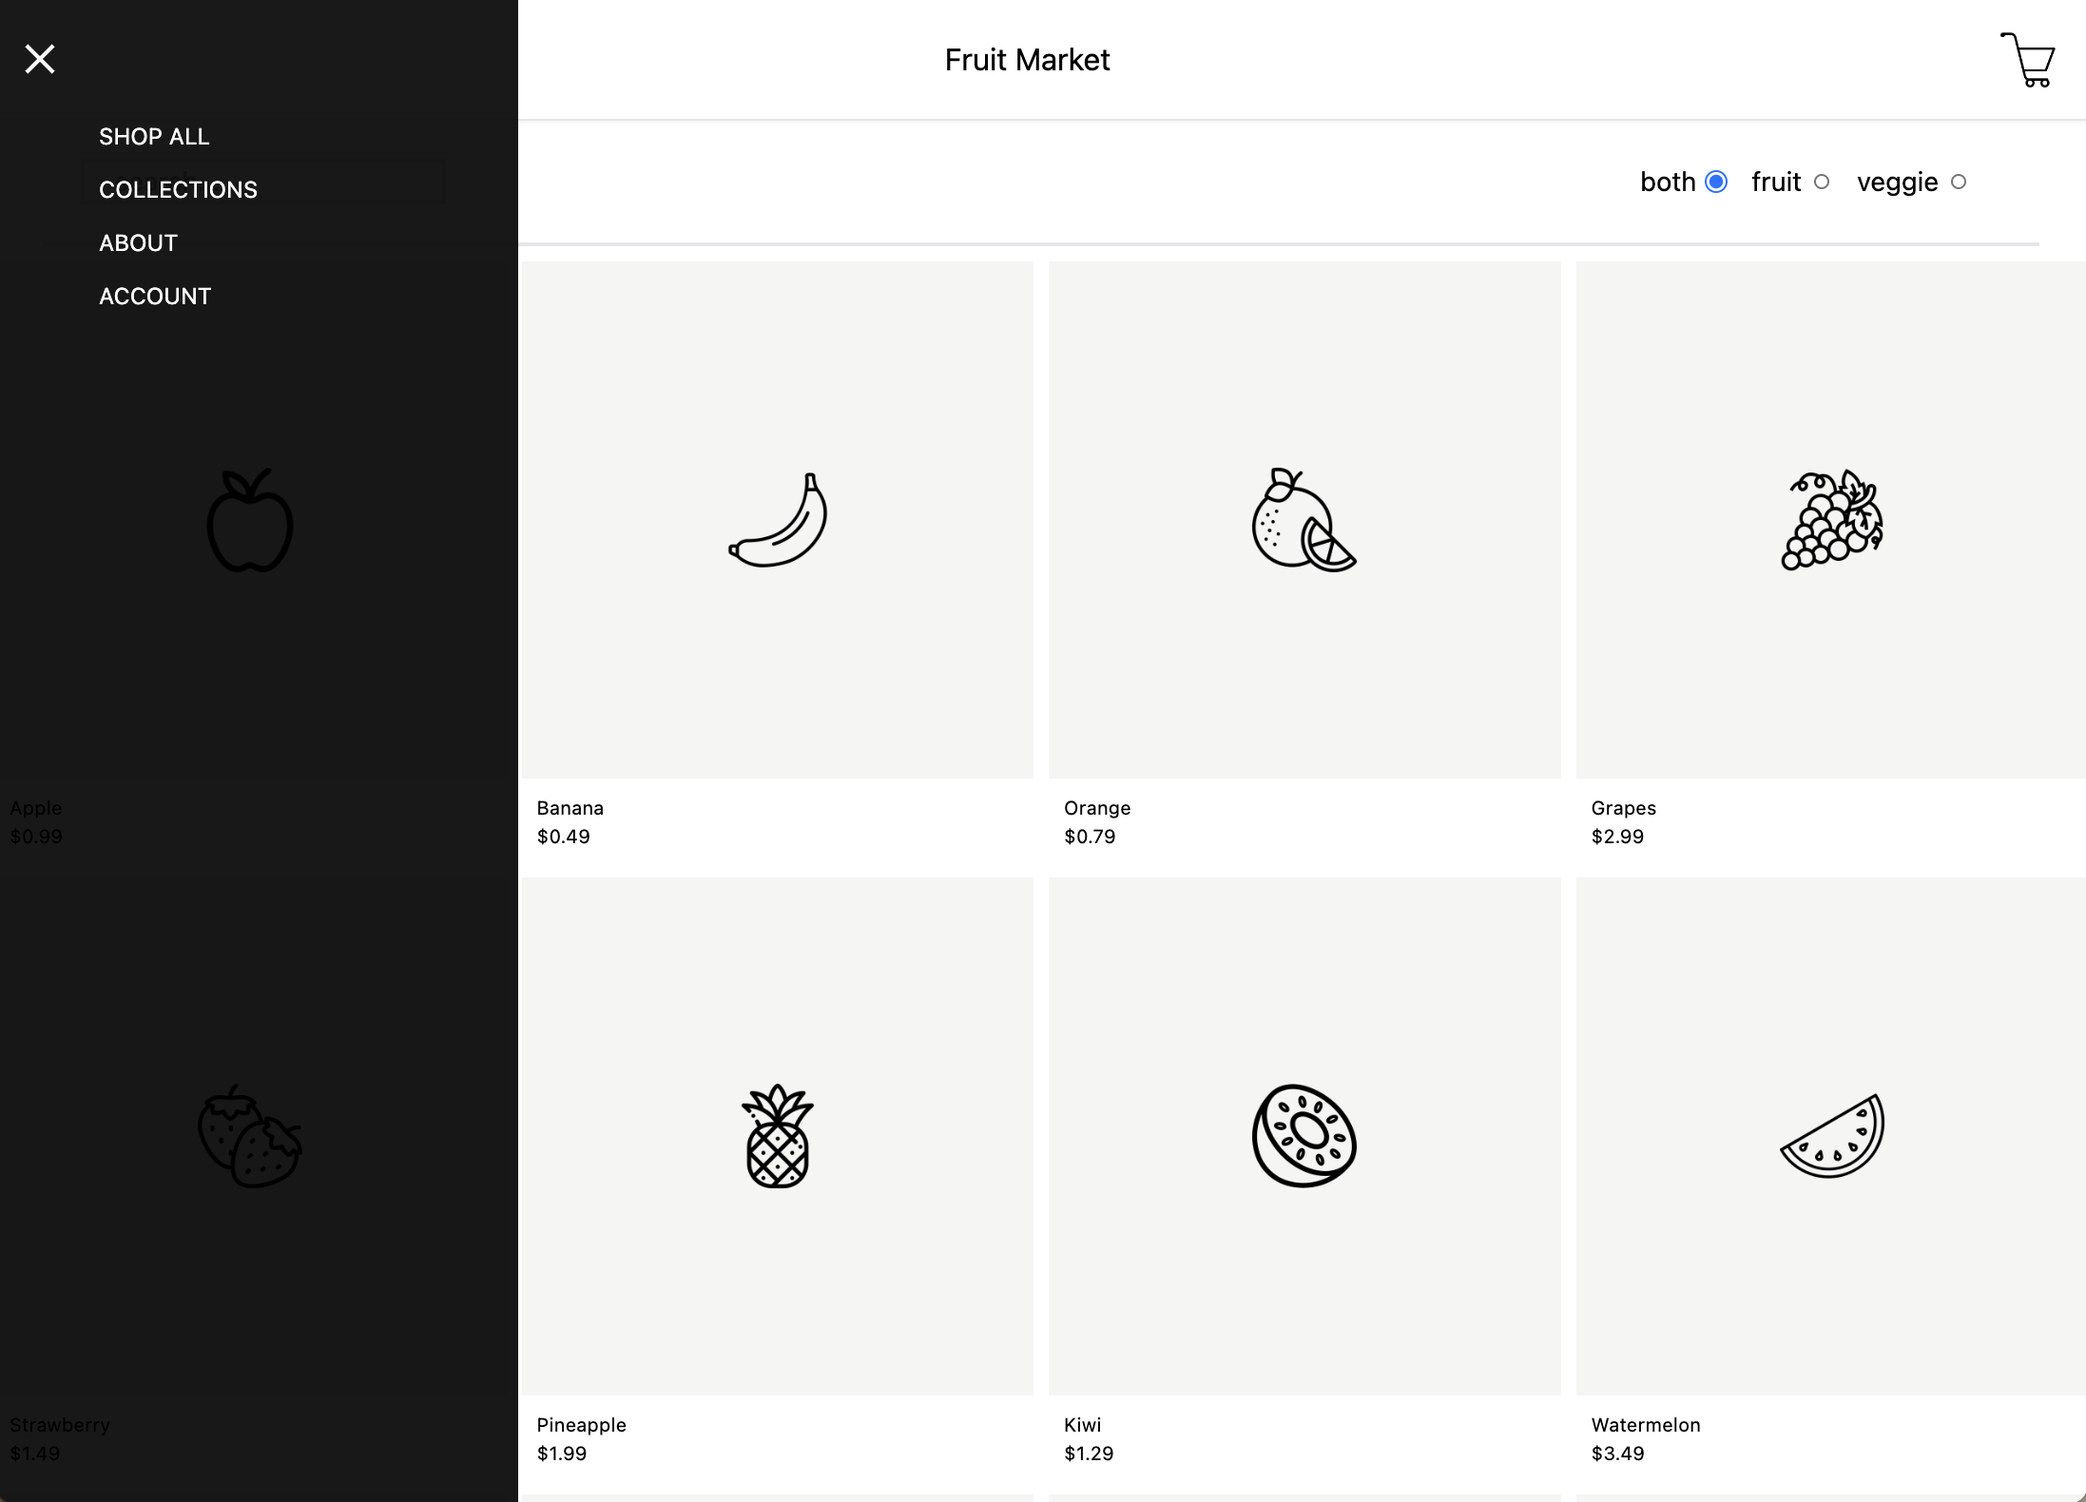
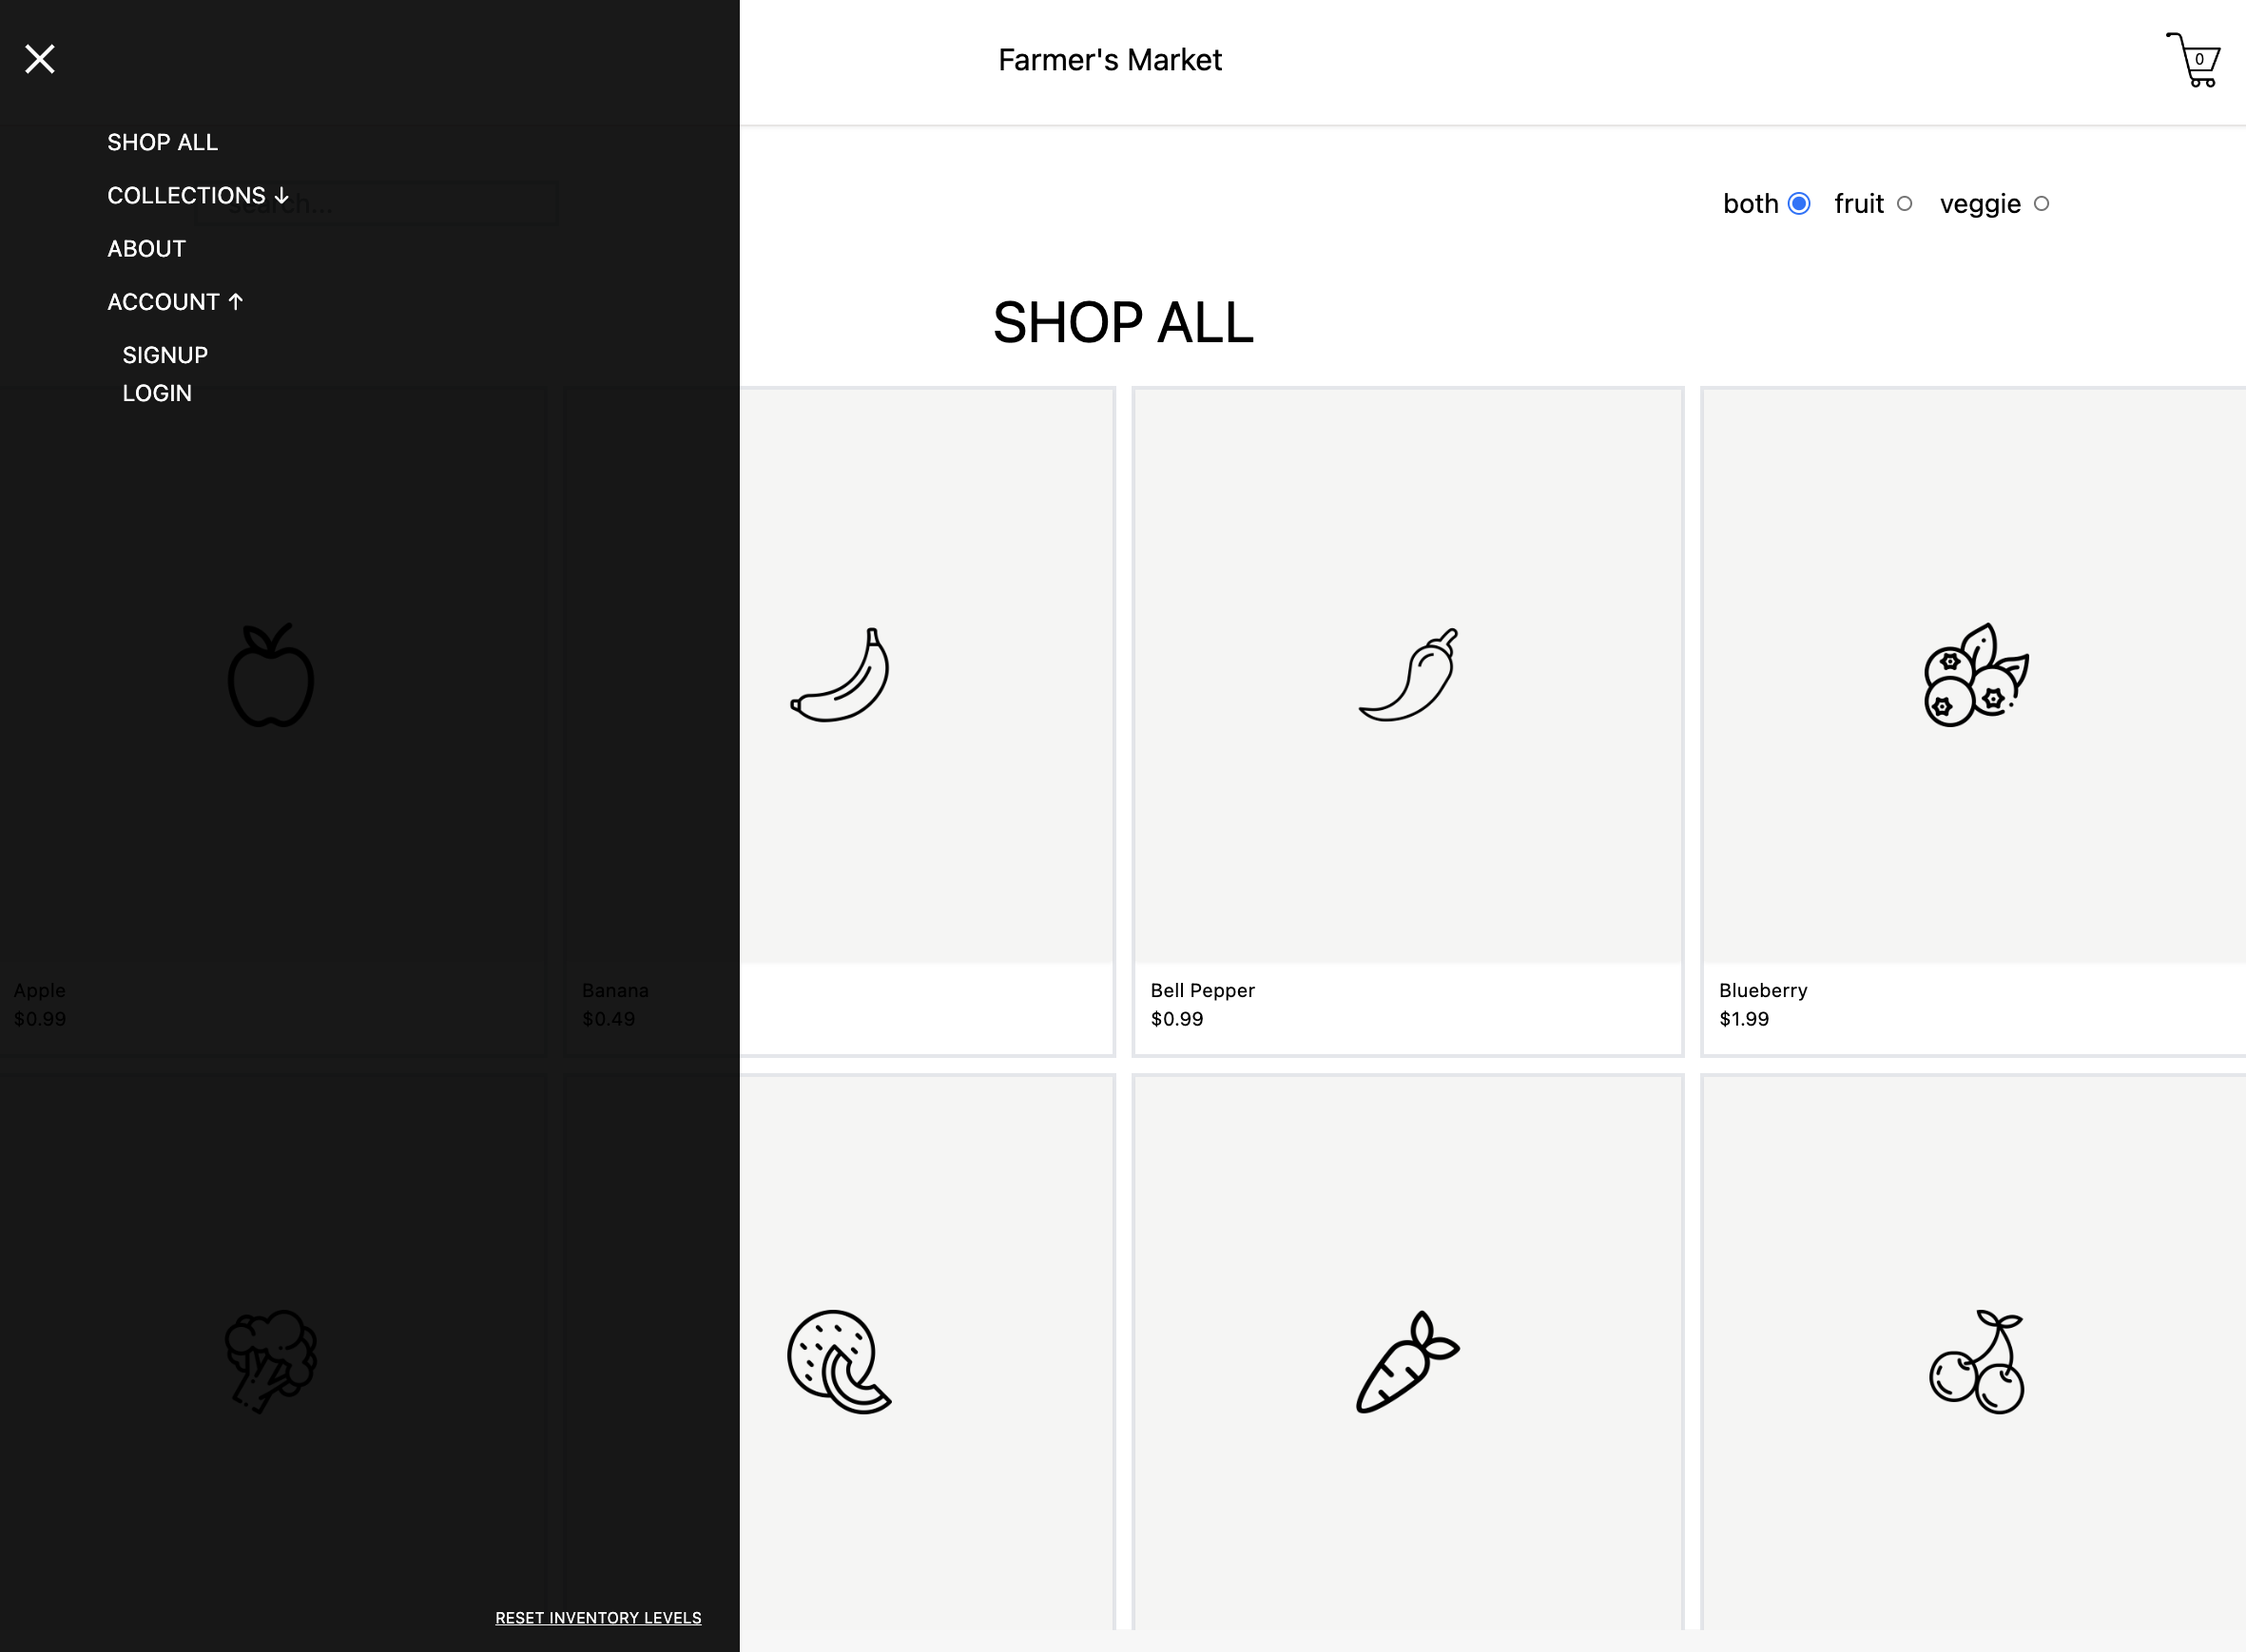
update Farmers market data

diff --git a/src/Data/projectData.js b/src/Data/projectData.js
@@ -28,6 +28,10 @@ import jobstock from '../Assets/projcard_images/job.png'
 import fmImage1 from '../Assets/proj_screenshots/Market/image1.png'
 import fmImage2 from '../Assets/proj_screenshots/Market/image2.png'
 import fmImage3 from '../Assets/proj_screenshots/Market/image3.png'
+import fmImage4 from '../Assets/proj_screenshots/Market/image4.png'
+import fmImage5 from '../Assets/proj_screenshots/Market/image5.png'
+import fmImage6 from '../Assets/proj_screenshots/Market/image6.png'
+
 import fmstock from '../Assets/projcard_images/fm.png'
 
 
@@ -35,7 +39,7 @@ import fmstock from '../Assets/projcard_images/fm.png'
 export const projects = [
     {
         id: 0,
-        title: 'Farmers Market',
+        title: "Farmer's Market",
         card_image: fmstock,
         images:[
             {
@@ -48,12 +52,22 @@ export const projects = [
             },            {
                 id: 2,
                 image: fmImage3
+            },            {
+                id: 3,
+                image: fmImage4
+            },
+            {
+                id: 4,
+                image: fmImage5
+            },            {
+                id: 5,
+                image: fmImage6
             },
         ],
-        description: 'Farmers Market is a fully functional, front-end web app that lets you explore and purchase fresh produce with ease. Search through a variety of farm-fresh items, add them to your cart, and simulate the complete e-commerce experience.',
-        techs: ['React.js','Javascript', 'HTML', 'TailwindsCSS', 'EmailJS'],
-        git: '',
-        demo: 'https://retail-6rlp.onrender.com'
+        description: 'Farmers Market is a complete, full-stack, e-commerce web application, providing a lifelike online shopping experience for fresh produce.',
+        techs: ['React.js','Javascript', 'Rails', 'Ruby', 'HTML', 'TailwindsCSS', 'Geoapify'],
+        git: 'https://github.com/lvas248/farmers_market_revamp',
+        demo: 'https://farmers-market-c6jl.onrender.com'
 
     },
 

diff --git a/src/Pages/Projects/ProjectCard.js b/src/Pages/Projects/ProjectCard.js
@@ -1,4 +1,5 @@
 import ProjectDetail from "./ProjectDetail";
+
 function ProjectCard({project, selectedProjectId, updateSelectedProjectId}) {
 
     function select(){
@@ -8,7 +9,6 @@ function ProjectCard({project, selectedProjectId, updateSelectedProjectId}) {
     return ( 
 
         <div
-            id={project.title}
             className={`drop-shadow-xl `}
         >
 
@@ -17,7 +17,6 @@ function ProjectCard({project, selectedProjectId, updateSelectedProjectId}) {
                 <img className='object-cover h-full w-full grayscale' alt='proj' src={project.card_image} />
                 <p className='text-center absolute inset-0 flex items-center justify-center text-[40px] sm:text-[50px] lg:text-[60px] text-white font-bold  shadow-xl'>{project.title}</p>
                 
-
                 <ProjectDetail selectedProjectId={selectedProjectId} updateSelectedProjectId={updateSelectedProjectId} project={project} />
 
             </div> 

diff --git a/src/Pages/Projects/ProjectDetail.js b/src/Pages/Projects/ProjectDetail.js
@@ -12,7 +12,6 @@ function ProjectDetail({ selectedProjectId, project}) {
 
   
             <div 
-
                 className={
                 `${(selectedProjectId !== project.id) && 'opacity-0'} transition-opacity duration-500 h-[100%] w-[100%] absolute top-0 text-white  p-5 text-xs drop-shadow-md hover:cursor-default`
                 }>
